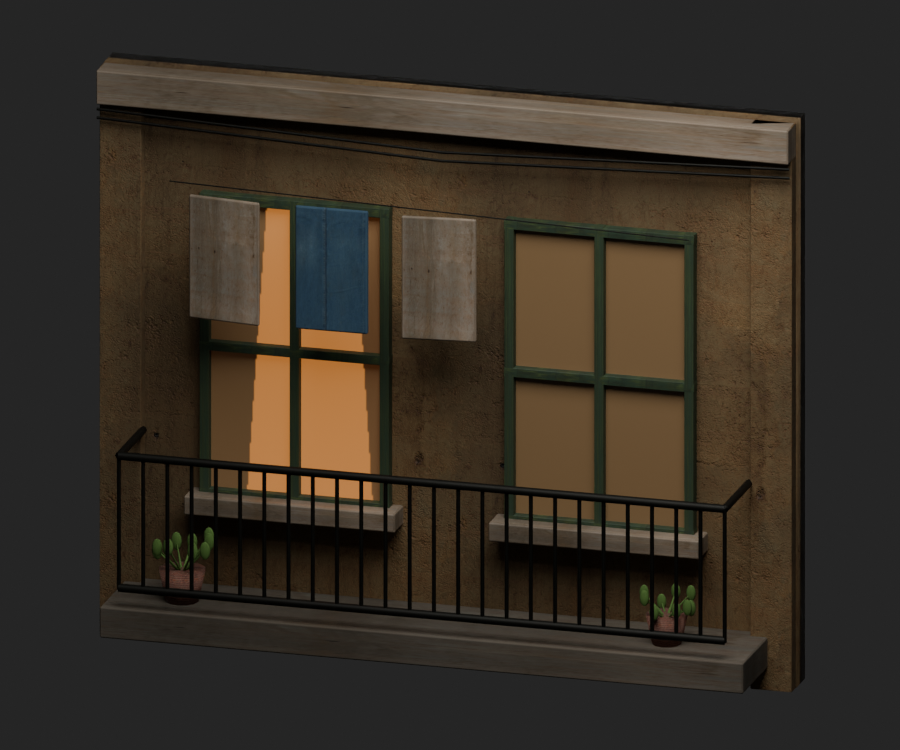
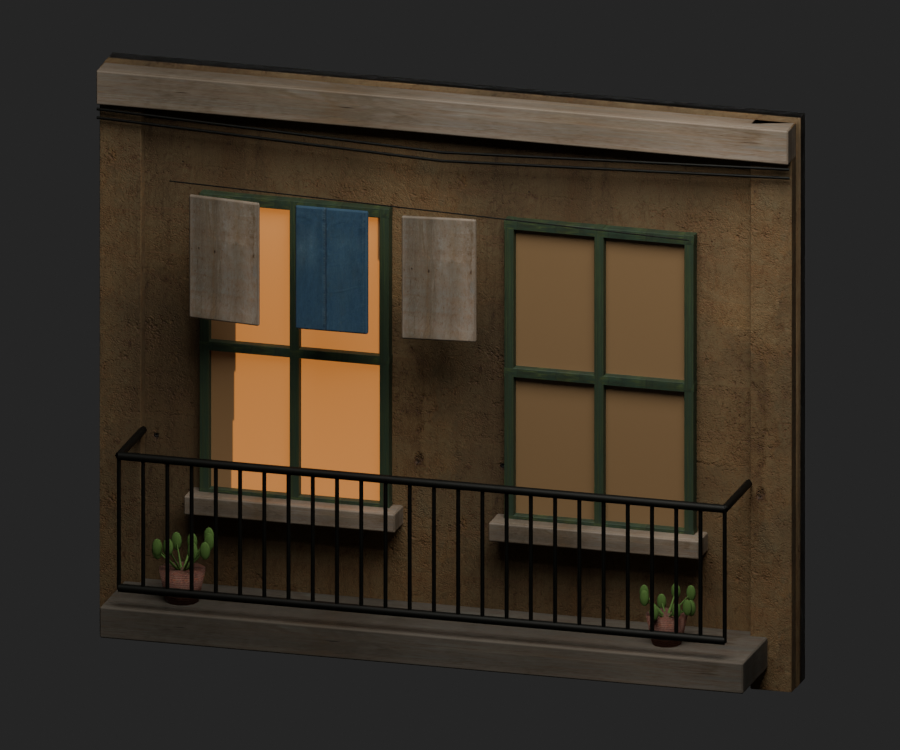
Tune facade emission mask towards forty percent

Changed region(s): [[0.4044, 0.276, 0.4356, 0.6747], [0.2489, 0.4293, 0.3111, 0.6747], [0.28, 0.276, 0.3111, 0.368]]

diff --git a/examples/game-hanoi-city/art-src/sand3d/split_facade_windows.py b/examples/game-hanoi-city/art-src/sand3d/split_facade_windows.py
@@ -73,8 +73,8 @@ shader.inputs['Emission Strength'].default_value = .5
 img = Image.new('RGB', (256, 128), (0, 0, 0))
 draw = ImageDraw.Draw(img)
 draw.rectangle((0, 0, 127, 127), fill=(255, 158, 72))
-draw.polygon([(0, 0), (42, 0), (28, 127), (0, 127)], fill=(52, 30, 14))
-draw.polygon([(104, 0), (127, 0), (127, 127), (118, 127)], fill=(82, 45, 20))
+draw.polygon([(0, 0), (23, 0), (17, 127), (0, 127)], fill=(52, 30, 14))
+draw.polygon([(121, 0), (127, 0), (127, 127), (124, 127)], fill=(82, 45, 20))
 texture_path = Path(tempfile.gettempdir()) / 'hanoi_window_emission.png'
 img.save(texture_path)
 tex = window.node_tree.nodes.new('ShaderNodeTexImage')

diff --git a/examples/game-hanoi-city/review/09/README.md b/examples/game-hanoi-city/review/09/README.md
@@ -19,8 +19,10 @@ The four `upper_0*.png` images show the upper-storey facade variants with
 their window panels separated as `window_glow` and their masonry and joinery
 non-emissive. `upper_01_world_zero.png` demonstrates the result without world
 or review lighting. An emissive texture lights one window in each variant and
-shows a partially drawn curtain; the other window is dark. This is a simple
-pattern, and the target fraction of lit panes and the final streetscape still
+shows a partially drawn curtain; the other window is dark. About 39.6% of the
+texture pixels are bright (red > 100 and green > 40 on an 8-bit scale). Shutters
+and perspective affect how much is visible in the scene, so this is not a
+measurement of the fraction of visible panes. This is a simple pattern, and the final streetscape still
 need visual review. All eight upper facade GLBs, including LOD1, pass glTF Validator with
 zero errors and warnings; their triangle counts are unchanged and within budget.
 
